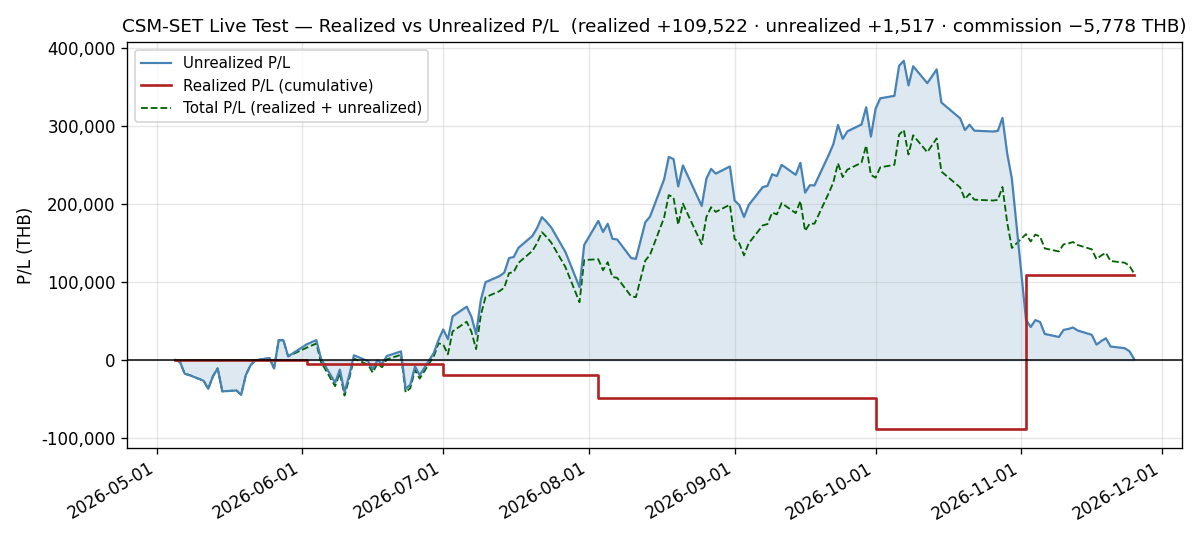
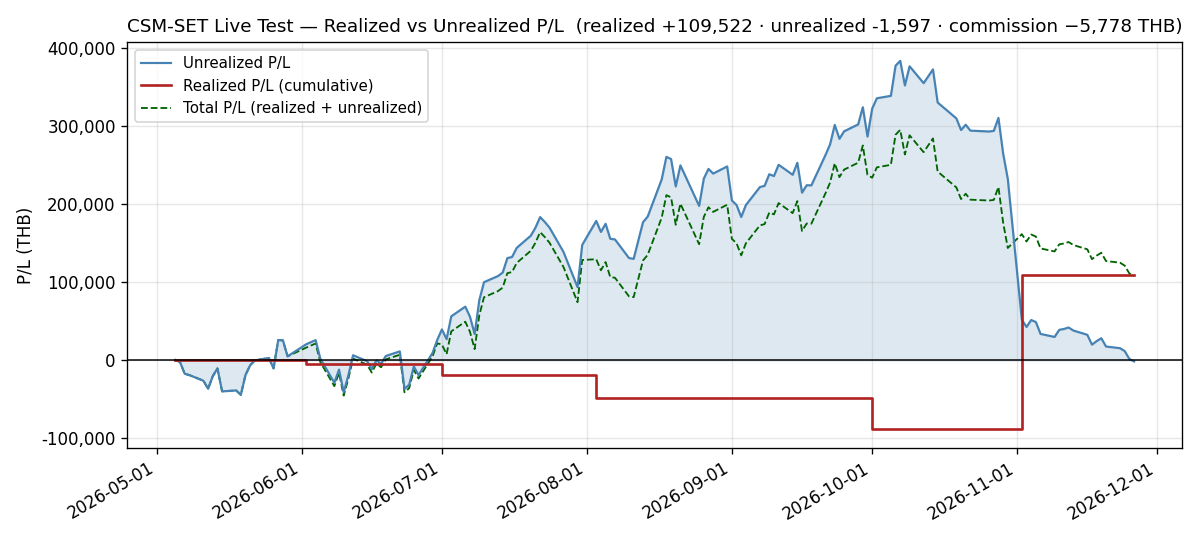
docs(live-test): add daily log for 2026-11-26 (scored session 19 of 40)
NAV 1,226,314.32 THB, -3,114.00 (-0.2533%) on the published prior close;
window -2.8400%. Two names rose and eight fell; unrealized P/L turned
negative (-1,596.98), for the first time since 2026-06-26 in pnl.csv. HANA
went ex-dividend (0.25 THB/share, 150.00 THB uncredited) and its history was
back-adjusted, so equity_curve and daily_return moved to the restated basis
while daily_performance kept the published NAV. The breaker stays TRIPPED
at a rolling drawdown of -13.2417%; the regime stays BEAR. pnl.csv row and
the P/L chart regenerated; the three NAV charts are byte-identical.

Claude-Session: https://claude.ai/code/session_01VKyqnmKmz6Hh9ErHRFMhFr

diff --git a/docs/live-test/daily/2026-11-26.md b/docs/live-test/daily/2026-11-26.md
@@ -1,0 +1,291 @@
+# Daily Log — 2026-11-26 (Thursday)
+
+**As of:** 2026-11-26, Asia/Bangkok
+**Phase:** D — Final Evaluation & Documentation
+**Day:** 141 / 21 trading days remaining in 2026
+**Status:** 🟢 **SCORED — session 19 of 40 in the registered window** (`reports/2026-10-27-forward-scoring-pre-registration.md`). **NAV closes at 1,226,314.32 THB, −3,114.00 (−0.2533%) on the session and −2.8400% on NAV₀ = 1,262,159.89**, its lowest close since 2026-08-11. **Two names rose and eight fell**; CNT −6.67% and INSET −3.61% led. ⚠ **Unrealized P/L turned negative, −1,596.98 THB (−0.80%)**, for the first time since 2026-06-26 in `graphs/pnl.csv`. ⚠ **HANA went ex-dividend**, and its price history was back-adjusted (Risk Note 2). 🔴 **The circuit breaker stays TRIPPED**, its rolling drawdown deepening to **−13.2417%**, the deepest in the published NAV series. 🔴 **The regime stays BEAR**; the SET fell −0.9842%, its third consecutive fall. 🟢 **The eighth scheduled refresh on image `239921e2a7bd` ran clean** (211 / 0), and no bound fired. ⚠ **125 of 1,055 holiday polls banked** since the settfex 0.26.3 upgrade (Risk Note 7). Total Return on NAV is **+9.49%**.
+
+---
+
+## Execution Summary
+
+**No trades today.** The book is the one recorded from the 2026-11-02 rotation (`configs/live_portfolio.yaml` at `2f846b0`), unchanged since. Realized P/L for the session is **0.00 THB** and no commission was paid. **The breaker's safe mode acts only at a month-end evaluation**, so equity at 16.1571% of NAV creates no trade. The next evaluation is **2026-11-30** (registration §3).
+
+---
+
+## Portfolio Snapshot
+
+> 🟢 **Every figure in this section is SCORED-WINDOW data, session 19.** It is `configs/live_portfolio.yaml` at `2f846b0` repriced against the 2026-11-26 bar of `data/processed/prices_latest.parquet`, and it **equals** the `db_gateway.daily_performance` row the 18:00 refresh wrote.
+
+`Avg Cost` is the commission-inclusive per-share basis carried from `configs/live_portfolio.yaml` (4-decimal precision); `Cost Basis = shares × Avg Cost`, and `U.PL % = MV / Cost Basis − 1`.
+
+| # | Symbol | Shares | Avg Cost | Last Price | Market Value (THB) | Cost Basis (THB) | U.PL % |
+|---|--------|-------:|---------:|-----------:|--------------------:|-----------------:|-------:|
+| 1 | IRPC | 11,300 | 2.3037 | 2.04 | 23,052.00 | 26,031.81 | −11.45% |
+| 2 | HANA | 600 | 35.8070 | 43.60 | 26,160.00 | 21,484.20 | +21.76% |
+| 3 | GUNKUL | 6,100 | 2.9246 | 4.10 | 25,010.00 | 17,840.06 | +40.19% |
+| 4 | INSET | 8,400 | 3.0848 | 3.20 | 26,880.00 | 25,912.32 | +3.73% |
+| 5 | KCE | 500 | 39.0655 | 51.75 | 25,875.00 | 19,532.75 | +32.47% |
+| 6 | EPG | 3,400 | 5.9099 | 5.02 | 17,068.00 | 20,093.66 | −15.06% |
+| 7 | SMT | 4,000 | 5.8097 | 4.94 | 19,760.00 | 23,238.80 | −14.97% |
+| 8 | CNT | 3,600 | 3.3456 | 1.82 | 6,552.00 | 12,044.16 | −45.60% |
+| 9 | SPRC | 1,200 | 13.8232 | 12.15 | 14,580.00 | 16,587.84 | −12.10% |
+| 10 | SSP | 2,200 | 7.7129 | 6.00 | 13,200.00 | 16,968.38 | −22.21% |
+
+### Portfolio summary
+
+| Metric | Value |
+|--------|-------|
+| Total Cost Basis | 199,733.98 THB |
+| Total Market Value | 198,137.00 THB |
+| Unrealized P/L | −1,596.98 THB (−0.80%) |
+| Realized P/L (today) | 0.00 THB |
+| Realized P/L (cumulative, since inception) | **+109,521.83 THB** |
+| Commission paid (cumulative) | **−5,777.54 THB** |
+
+### Account summary
+
+| Metric | Value |
+|--------|-------|
+| Remaining Cash | 1,028,177.32 THB |
+| Total NAV | 1,226,314.32 THB |
+| Total Return on NAV | +9.49% |
+
+> **Cost-basis note:** Total Cost Basis is **199,733.98 THB**, equal to Σ per-symbol `shares × avg_cost` with a **0.00** delta, unchanged since the rotation.
+>
+> **Above/below cost: 4 up / 6 down**, the same names as on 2026-11-25. **CNT** (−45.60%), **SSP** (−22.21%), **EPG** (−15.06%), **SMT** (−14.97%), **SPRC** (−12.10%) and **IRPC** (−11.45%) are below; HANA, GUNKUL, INSET and KCE are above.
+>
+> **Equity is 16.1571% of NAV** (198,137.00 of 1,226,314.32), down from 16.3695%. The breaker acts only at the month-end evaluation.
+>
+> **Total P/L check:** realized + unrealized = 109,521.83 − 1,596.98 = **+107,924.85 THB**, down from +111,038.85 by **3,114.00**, exactly the session's NAV change.
+
+---
+
+## Day-over-Day Change (vs Wednesday November 25)
+
+| Symbol | Nov 25 Close | Nov 26 Close | Change | Change % | MV Contribution (THB) |
+|--------|-------------:|-------------:|-------:|---------:|----------------------:|
+| IRPC | 1.99 | 2.04 | +0.05 | +2.51% | +565.00 |
+| SPRC | 11.95 | 12.15 | +0.20 | +1.67% | +240.00 |
+| HANA | 44.00 | 43.60 | -0.40 | -0.91% | -240.00 |
+| EPG | 5.08 | 5.02 | -0.06 | -1.18% | -204.00 |
+| KCE | 52.50 | 51.75 | -0.75 | -1.43% | -375.00 |
+| SMT | 5.02 | 4.94 | -0.08 | -1.59% | -320.00 |
+| GUNKUL | 4.22 | 4.10 | -0.12 | -2.84% | -732.00 |
+| INSET | 3.32 | 3.20 | -0.12 | -3.61% | -1,008.00 |
+| SSP | 6.26 | 6.00 | -0.26 | -4.15% | -572.00 |
+| CNT | 1.95 | 1.82 | -0.13 | -6.67% | -468.00 |
+| **Total** | | | | **-1.55%** | **-3,114.00** |
+
+**Breadth: 2 up, 8 down, 0 flat.**
+
+> The `Change %` on the Total row is the **market-value** change (−3,114.00 / 201,251.00 = −1.5473%), not the NAV change (−3,114.00 / 1,229,428.32 = −0.2533%). They differ by the cash in the NAV denominator, 83.63% of the prior session's NAV in safe mode.
+>
+> ⚠ **HANA's `Nov 25 Close` is the published 44.00.** The panel now reads **43.75** for that session: HANA's history was back-adjusted (Risk Note 2). On the restated basis its change is −0.15 (−0.34%, −90.00). **The published basis reconciles to the NAV change exactly; the restated basis misses by 150.00, which is the dividend.**
+
+**Eight names fell; the two risers added +805.00 against −3,919.00.**
+
+- **INSET −3.61% (−1,008.00)** was the session's largest loss in THB, its largest fall since 2026-11-23. It closed at its lowest since 2026-06-11, and its U.PL is +3.73%.
+- **CNT −6.67% (−468.00)** was the largest fall in percent. It closed at its lowest since 2026-08-14, and its U.PL is −45.60%. Over the four sessions since 2026-11-20 it is down −39.33%, from 3.00 to 1.82.
+- **SSP −4.15% (−572.00)** closed at its lowest since 2026-09-08, and **GUNKUL −2.84% (−732.00)** at its lowest since 2026-06-24.
+- **IRPC +2.51% (+565.00)** is its largest rise since 2026-11-13, and **SPRC +1.67% (+240.00)** its largest since 2026-11-10. They were the only risers.
+- **Unrealized P/L is −1,596.98 (−0.80%)**, down from +1,517.02. It is negative for the first time since 2026-06-26 in `graphs/pnl.csv`.
+- **NAV is at its lowest since 2026-08-11.**
+- **The book fell −0.2533% and the SET −0.9842%**, a **+0.7310pp** difference. It is a same-session arithmetic result for a book that is 83.84% cash, not a performance comparison (Market Context).
+
+No cause is stated for any of these moves; none was looked up.
+
+---
+
+## Market Context
+
+| Indicator | Value | Source |
+|-----------|-------|--------|
+| SET Index | 1,414.44 | tvkit (TradingView) |
+| SET Open / High / Low | 1,439.73 / 1,442.13 / 1,414.21 | tvkit |
+| SET 200-day SMA | 1,531.0517 | tvkit (TradingView) |
+| Regime Estimate | BEAR | SET −7.62% below SMA200 |
+
+> ⚠ **This is context, NOT a benchmark comparison, and it must not be read as one.**
+>
+> - **Different price bases.** `SET:SET` is a **price index**; the strategy series above is priced on **dividend-adjusted** bars (since `e04a292`, 2026-08-09). The difference is one-sided in the strategy's favour, and it is not small: measured 2026-09-11 over 2024-03-19 → 2026-09-10, the dividend adjustment is worth **+12.09 percentage points** on this universe, roughly **+4.8%/yr**.
+> - **No alpha, excess return or outperformance figure is computed anywhere in this log.** The registration's tracking error against this index is reported in Risk Note 1 as a risk metric (§5).
+
+---
+
+## Regime State
+
+- **Detected regime:** 🔴 **BEAR**, the nineteenth session. SET (1,414.44) is **below** SMA200 (1,531.0517) by −7.6164%.
+- **SMA200 position:** 1,531.0517, with the SET closing 116.61 points under it.
+- **3-month return:** −11.66% (window-sensitive — see Notes).
+- **The engine's own `RegimeDetector.detect()` also returns BEAR**: price below SMA200, and a 63-session return of **−11.64%** against its −5% threshold.
+- **No regime-driven action under the registration.** The regime filter is not one of the registered rules (§4). The SET closed −8.11% below its own EMA100 and −6.21% below its EMA200; both are reported and not applied.
+
+**The last six closes read 1,472.64 → 1,453.28 → 1,454.49 → 1,451.65 → 1,428.50 → 1,414.44.**
+
+- **Today:** a **−14.06 point, −0.9842%** session. The index is **−12.7906%** below the 2026-09-08 high. It is the third consecutive fall.
+- **The SET's lowest close since 2026-03-24**, on bars fetched back to 2020-09-17.
+- **Range:** **27.92 points**, against 20.19 the prior session. The index opened at 1,439.73, reached 1,442.13, and closed 0.23 above its low of 1,414.21.
+- **Cushion fell −6.6727% → −7.6164%, a −0.9437pp step**, to its lowest since 2025-07-16. SMA200 rose to **1,531.0517** (+0.4169).
+- **A BEAR→BULL crossing needs the index 116.61 points higher**, +8.24% at today's SMA200.
+
+The 3-month figure moved from −11.48% to −11.66%, its start bar moving from 2026-08-21 (1,613.78) to 2026-08-24 (1,601.05).
+
+---
+
+## Sector Concentration
+
+Groupings are SET-official, as on 2026-11-02. The book is held at about 20% equity by the breaker's safe mode.
+
+| Sector | Market Value (THB) | % of NAV | % of stocks held | Limit (NAV) | Status |
+|--------|--------------------:|---------:|-----------------:|-------------|--------|
+| Energy & Utilities (ENERG) | 75,842 | 6.1845% | 38.2776% | 35% | OK on NAV |
+| Electronic Components (ETRON) | 71,795 | 5.8545% | 36.2350% | 35% | OK on NAV |
+| ICT | 26,880 | 2.1919% | 13.5664% | 35% | OK |
+| Construction Materials (CONMAT) | 17,068 | 1.3918% | 8.6142% | 35% | OK |
+| Construction Services (CONS) | 6,552 | 0.5343% | 3.3068% | — | below the 5% floor by ruling I5 |
+
+- **Every sector fell. ICT fell most, −0.0765pp to 2.1919%**, on INSET. ETRON −0.0613pp on KCE, SMT and HANA. **ENERG still leads at 6.1845% of NAV** (−0.0250pp): IRPC and SPRC rose, GUNKUL and SSP fell. CONS −0.0367pp on CNT, CONMAT −0.0131pp on EPG.
+- **The 35% cap is measured on NAV** (I2), and no sector is near it.
+- **As a share of the stocks held, ENERG is 38.28% and ETRON 36.24%.** The two hold 74.51% of the equity sleeve between them. This is recorded for context; it is not the registered measure.
+- **Every position is below the 5% floor**, between 0.5343% (CNT) and 2.1919% (INSET) of NAV. The breaker governs the band (I5), so **these are not deviations**.
+
+---
+
+## Risk Notes
+
+1. 🟢 **SCORED SESSION 19 OF 40.**
+
+   | Measure (registration §5) | Value |
+   |---|---|
+   | NAV₀ (2026-10-30 close) | 1,262,159.89 |
+   | NAV₁₈ (2026-11-25 close) | 1,229,428.32 |
+   | NAV₁₉ (2026-11-26 close) | 1,226,314.32 |
+   | r₁₉ = NAV₁₉ / NAV₁₈ − 1 | **−0.2533%** |
+   | Window return to date | **−2.8400%** |
+   | Max drawdown to date (running peak from NAV₀) | **−4.1825%** (2026-11-26, from the 2026-11-02 peak) |
+   | Annualized volatility (n = 19) | 10.41% |
+   | Sharpe, rf = 2% (n = 19) · rf = 0 | −3.81 · −3.62 |
+   | Tracking error vs `SET:SET` (n = 19) | 11.27% |
+
+   **Nineteen returns carry almost no information**, and annualizing them magnifies that. **No criterion is graded before the window ends** (2026-12-30), and §9's power statement applies to every figure here.
+2. ⚠ **HANA WENT EX-DIVIDEND, AND ITS PRICE HISTORY WAS BACK-ADJUSTED.**
+   - **What changed:** every HANA bar in the window was multiplied by **0.99431818**, uniform across all 18 dates from 2026-11-02 to 2026-11-25. That implies **0.25 THB/share** (44.00 × 0.0056818 = 0.2500) and an entitlement of **150.00 THB** on 600 shares, not credited (Risk Note 10). It is the only held name restated on this session; GUNKUL's restatement of 2026-11-20 is unchanged.
+   - **`daily_performance` equals this log.** The row reads **1,226,314.32, cash 1,028,177.32**, and today's `equity_curve` row agrees.
+   - **`daily_return` reads −0.2411%, against this log's −0.2533%.** The gateway measures from the prior session repriced at the restated close: 1,229,278.32, which is the published 1,229,428.32 less the 150.00. This log, and the scored series, use the published prior NAV (registration §8: the published NAV, frozen at publication).
+   - **`equity_curve` was rewritten again on all 18 earlier window dates**, each by 600 × that session's HANA back-adjustment (126.99 to 163.64 THB), on top of the GUNKUL rewrite of 2026-11-20. `daily_performance`, the published series, is unchanged.
+   - `cumulative_return` and `combined_drawdown` both read −4.1620%. They are measured from `entry_date` 2026-11-02 on the basis restated for both names, and they are not the scored series (§5). On the published basis the same span is −4.1825%, the max drawdown in Risk Note 1.
+3. 🔴 **CIRCUIT BREAKER — TRIPPED, threaded one session (I4).**
+   - **Procedure:** `DrawdownCircuitBreaker` with the recorded parameters (60 sessions, −10% trip, −5% recovery held 21 sessions), called with the state carried from 2026-11-25 (TRIPPED, recovery progress 0) on the published NAV series. It returns **TRIPPED**, rolling drawdown **−13.2417%**, equity fraction **0.20**, no transition.
+   - The drawdown deepened from −13.0214% on 2026-11-25, so it is again **the deepest in the published NAV series**. **Recovery needs it above −5%**, so the state does not move.
+   - The 2026-10-07 peak (1,413,483.89) is still the window's high.
+   - **Recovery** starts when the rolling drawdown rises above −5%, at NAV **1,342,809.70**. That is **116,495.38 (+9.4996%)** above today's NAV. From a book 16.16% in stocks, it needs the equity sleeve to rise about **58.80%**.
+   - **The 1,064,000 THB line** (5% below `starting_nav`) has NAV **+162,314.32** (13.24%) above it. Under the registration it is a reporting line and carries no action.
+4. 🔴 **REGIME — BEAR, the nineteenth session** (Regime State). Under the registration it changes nothing. The transition is recorded in `events/2026-11-02-regime-transition-bull-to-bear.md`.
+5. 🟢 **EXECUTION — CLOSED** by the operator's ruling of 2026-11-04: the operator places every order by hand (registration §12; `events/2026-11-03-rotation-orders-placed-as-limit-orders.md`). Nothing changed since.
+6. 🟢 **REFRESH — the eighth scheduled firing on image `239921e2a7bd` ran clean.** It started at 11:00:00Z and completed at 11:02:11Z with receipt 211 / 0, in 129.825 s.
+   - **No bound fired, and no fetch needed a retry.** The container log holds no "Failed to fetch symbol" line, no "timed out" line and no "daily_refresh exceeded" line since the image started, and no retry warning since the 2026-11-24 one. Every symbol came back on attempt 1. [[TK-0657]]
+7. ⚠ **HOLIDAY POLL — 125 of 1,055 polls banked since the settfex 0.26.3 upgrade (11.8%); 65 of 476 on the current image.**
+
+   | Window | Image | Poll runs | Banked | Failure lines |
+   |---|---|---:|---:|---|
+   | 2026-11-04T12:20:14Z → 2026-11-05T11:20:14Z | `db0cb596918c` | 47 | 7 | logged at DEBUG; 1 run after the saved log, not banked |
+   | 2026-11-05T11:26:33Z → 2026-11-13T11:56:33Z | `7e49ed4f6a87` | 386 | 37 | 348, all `FetchError status_code=401`; 1 run after the saved log, not banked |
+   | 2026-11-13T12:16:34Z → 2026-11-16T13:16:34Z | `5bf4e130cfd6` | 146 | 16 | 128, all `FetchError status_code=401`; 3 runs after the saved log, 1 banked and 2 not |
+   | 2026-11-16T13:22:10Z → 2026-11-26T10:52:10Z | `239921e2a7bd` | 476 | 65 | 411, all `FetchError status_code=401` |
+   | **Total** | | **1,055** | **125** | |
+
+   - **The longest gap between two banked polls is still 45 h 30 m** (2026-11-20 10:22Z → 2026-11-22 07:52Z).
+   - **The stale-table warning continues.** The container logged *"committed 2026 fallback table is STALE vs the live calendar — promote: 2026-12-16"* at every firing from 2026-11-20 to 2026-11-26. The running image predates `941f406`, which added the date to the committed table on 2026-11-20; the banked calendar, which the refresh reads, has it.
+   - **Outside csm-set:** the platform's own market calendar still read 2026-12-16 as a trading day when checked on 2026-11-26. The finding was posted to `session:pm` on #461 on 2026-11-20, and it has no reply.
+   - **How banked polls are counted.** The observer's record covers the second image's first 99 runs (6 banked). After it ended on 2026-11-07T12:33:49Z, a run with no failure line counts as banked.
+   - **Runs whose log was lost** are counted when the banked calendar file decides their outcome. This is the rule adopted in the 2026-11-17 log. One run, 2026-11-16T11:46:34Z, cannot be decided and is left out.
+   - **Positive control:** the latest run before the 18:00 firing with no failure line, 09:52:10Z, matches the `captured_at` of 09:52:10Z that the firing read.
+   - **Exposure:** polls banked per Bangkok date since the upgrade (2026-11-04: 2, 2026-11-05: 5, 2026-11-06: 4, 2026-11-07: 2, 2026-11-08: 7, 2026-11-09: 3, 2026-11-10: 3, 2026-11-11: 6, 2026-11-12: 6, 2026-11-13: 8, 2026-11-14: 3, 2026-11-15: 1, 2026-11-16: 11, 2026-11-17: 10, 2026-11-18: 11, 2026-11-19: 6, 2026-11-20: 8, 2026-11-21: 0, 2026-11-22: 2, 2026-11-23: 6, 2026-11-24: 5, 2026-11-25: 7, 2026-11-26: 9 to the 18:00 firing).
+8. 🟢 **INFRA — no change since 2026-11-25.**
+   - The container has run image `239921e2a7bd` since 2026-11-16 at 20:21:26 BKK. This session's refresh is its eighth.
+   - **Rollback image kept:** `rollback-20261116` → `5bf4e130cfd6`.
+   - **Not yet deployed:** `941f406` (the committed holiday table, Risk Note 7). It ships with the next image build; none is planned in this log.
+   - **The missing-receipt alert** (TK-0657, closed) runs on HOME (#464). This session's report landed at 18:02 BKK, before the 22:30 BKK due time.
+9. 🟢 **Bands, by ruling.** The 35% cap is measured on NAV, where ENERG leads at 6.1845% (I2). Every position is below the 5% floor (I5). [[TK-0279]]
+10. ⚠ **The uncredited dividend total ROSE, 9,049.00 → 9,199.00 THB**: KCE 1,560.00, INSET 2,100.00, MGC 2,208.00, FORTH 795.00, IRPC 2,264.00, GUNKUL 122.00, HANA 150.00.
+    - HANA's 150.00 is 600 × 0.25, the amount the back-adjustment implies (Risk Note 2).
+    - That is **0.75% of NAV** and **8.52%** of the +107,924.85 total P/L.
+    - The registration reports dividends beside each score and does not credit them (§8).
+11. ⚠ **DOC — the `csm-set-daily-log` skill's `daily_return` guidance remains stale.** Its Step 3 still calls the field *"an open defect, not yet fixed in code"*; it was fixed 2026-09-02. Today it diverges for a different reason, the restatement (Risk Note 2). **Fifty-fifth log to carry this.**
+12. **Open decisions — answered for the scored window, by the registration's §8 and §12 and the 2026-10-31 rulings.**
+
+    | Decision | Registered for the window |
+    |---|---|
+    | EMA100 | per holding |
+    | Bands | bind at construction, on the names being traded; the breaker governs them in safe mode (I5) |
+    | Sector cap | measured on NAV, checked on the scaled book (I2) |
+    | Breaker state | advances every trading session (I4) |
+    | Price history | the published NAV, frozen at publication |
+    | Dividends | not credited, reported beside each score |
+    | Fill rule | the operator places every order by hand (amendment of 2026-11-04, registration §12) |
+
+---
+
+## Notes
+
+- **Scheduled refresh completed via APScheduler with zero failures.**
+  - `"Scheduled daily_refresh completed"` at **2026-11-26T11:02:11Z** (18:02 BKK).
+  - It was the 18:00 cron firing (`cron[... day_of_week='mon-fri', hour='18', minute='0']`, started 11:00:00Z).
+  - Receipt: `symbols_fetched=211, failures=0, duration_seconds=129.825, held_symbols_fetched=10, held_symbols_failed=0, retry_attempts_used=0, index_fetched=true`, corroborated by `results/.tmp/last_refresh.json`.
+  - The held phase ended `requested=10 recovered=10 still_failing=0` at 11:00:08Z, and the universe phase `requested=201 recovered=201 still_failing=0` at 11:01:51Z. The gateway accepted the daily report (`201`) at 11:02:11Z.
+  - The firing's own log line gives the next run as 2026-11-27 18:00 +07.
+- **No manual trigger, checked on the access log's fields.**
+  - Every access record since the container started was parsed, and its `method` and `path` fields were tested for a `POST` to a path under `/api/v1/scheduler/run`. There were 28,273 access records, all `GET /health`, and no `POST` of any kind.
+  - **Positive control:** the same parse finds a synthetic access record with method `POST` and path `/api/v1/scheduler/run/daily_refresh` appended to a copy of the log.
+- **The log holds one ERROR since the container started**, the 2026-11-24 WebSocket failure. Of 40,336 JSON records, 40,326 are INFO, one is ERROR and nine are WARNING: the startup notice that `CSM_API_KEY` is unset (2026-11-16T13:21:39Z), seven calendar warnings (two at 2026-11-19T17:52:11Z, and the stale-table warning at the 2026-11-20, 2026-11-23, 2026-11-24, 2026-11-25 and 2026-11-26 firings), and the 2026-11-24 retry warning.
+- **The container runs image `239921e2a7bd`**, its eighth scheduled refresh.
+  - `Created` 2026-11-16T13:21:26Z, `StartedAt` 13:21:28Z, `RestartCount` 0. `FinishedAt` is unset (0001-01-01) because this container has never stopped.
+  - The host has not rebooted since 2026-10-06 (`uptime -s` 2026-10-06 10:46:02).
+- **`SET:THCOM` was fetched with 600 bars again.**
+- **The price panel and the prior log agree on nine of ten names.** HANA was restated (Risk Note 2).
+- **The panel's row count fell 890 → 889.** Every row still carries a 09:55 Bangkok stamp, the column count is unchanged at **211**, and no session date is duplicated.
+- **Row-integrity checks pass.** `db_csm_set.equity_curve` holds **exactly one row per trading day at `00:00:00+00`** (140 rows, 140 dates, none off midnight), and today's row equals `daily_performance.total_value`. Its 18 earlier window rows were rewritten again (Risk Note 2).
+- **`configs/live_portfolio.yaml` is unchanged** since `2f846b0`.
+- **The P/L identity holds.** `realized_cum + unrealized − (NAV − starting_nav)` = 109,521.83 − 1,596.98 − 106,314.32 = **1,610.53 THB**, unchanged.
+- **Every figure was verified rather than asserted.**
+  - Σ position market value equals Total Market Value exactly (198,137.00).
+  - **Total NAV (1,226,314.32) equals `db_gateway.daily_performance.total_value` to the satang**, and cash equals the YAML's 1,028,177.32.
+  - The contributions, on the published prior closes, sum to the session's NAV change (−3,114.00) exactly.
+  - The sector table sums to Total Market Value exactly.
+  - Σ per-symbol cost basis matches Total Cost Basis with a **0.00** delta, and the position count is 10.
+  - All money arithmetic used `Decimal` with explicit half-up rounding, and so did SMA200.
+- **Realized P/L and commission ledger, unchanged.**
+  - Realized cumulative **+109,521.83 THB**: 2026-06-02 −4,351.87 · 2026-07-01 −14,964.06 · 2026-08-03 −29,775.45 · 2026-10-01 −39,365.29 · 2026-11-02 +197,978.50.
+  - Commission cumulative **−5,777.54 THB**: 05-05 1,611.15 · 06-02 984.44 · 06-04/05 169.09 · 07-01 287.83 · 08-03 682.65 · 10-01 201.81 · 11-02 1,840.57.
+- **Capital events to date, unchanged.** `starting_nav` 1,120,000 after 1,000,000 → 1,100,000 (2026-06-04, +100,000) → 1,120,000 (2026-08-03, +20,000).
+- **Every superlative was computed, and each names its window.**
+
+  | Claim | Window | Source |
+  |---|---|---|
+  | INSET's fall; IRPC's and SPRC's rises; the lows of INSET, CNT, SSP and GUNKUL | the whole panel, which starts 2024-06-10 for nine of these names and 2024-06-06 for CNT | the panel |
+  | NAV's lowest since 2026-08-11 | the published NAV series, from 2026-05-04 | `daily_performance` |
+  | Unrealized P/L negative for the first time since 2026-06-26 | `graphs/pnl.csv`, from 2026-05-05 | `pnl.csv` |
+  | The SET's lowest close since 2026-03-24; the cushion's lowest since 2025-07-16 | bars fetched back to 2020-09-17, so the cushion series starts 2021-07-16 | tvkit |
+- **3-month return figure is window-sensitive.** −11.66% is measured over the trailing 66 bars from today's close (start bar 2026-08-24, 1,601.05). The engine's 63-session figure is −11.64%. The regime estimate uses the SMA200 only.
+- **Follow-ups for the next session (Friday 2026-11-27 18:00 +07).**
+
+  | | Item | Level |
+  |---|---|---|
+  | (a) | the breaker state, threaded once | TRIPPED; rolling drawdown −13.2417%; recovery above 1,342,809.70 |
+  | (b) | the regime | BEAR; 116.61 points to a BULL crossing |
+  | (c) | the holiday-poll rate and the longest gap | banked ÷ run under the one rule; 45 h 30 m |
+  | (d) | #461, and the 2026-12-16 closure in the platform's calendar | `session:pm`'s |
+  | (e) | the next monthly evaluation | 2026-11-30 |
+  | (f) | the weekly report for 2026-11-23 → 2026-11-27 | due 2026-11-27 |
+
+  **The six follow-ups from 2026-11-25 are closed above or elsewhere:**
+  - (a) Risk Note 3; (b) Risk Note 4; (c) Risk Note 7;
+  - (d) Risk Note 7: #461 has no reply;
+  - (e) the evaluation date is unchanged;
+  - (f) Risk Note 8: `941f406` is not yet in the running image.
+- **Calendar.** 2026-11-26 was a trading session.
+  - The 18:00 firing read the banked SET holiday calendar (`results/.tmp/set_holidays.json`) at `captured_at 2026-11-26T09:52:10Z`, with 21 closures.
+  - The banked calendar lists the remaining 2026 closures as **2026-12-07**, **2026-12-10**, **2026-12-16** and **2026-12-31**. The next session is **2026-11-27**.
+  - No trading hours are stated anywhere in this log.
+- Data fetched via tvkit (TradingView, free tier): all 10 held-symbol prices from the 18:00 BKK scheduled-cron refresh; SET Index context anchored explicitly to the 2026-11-26 bar. ⚠ **The vendor back-adjusts a symbol's entire history on an ex-dividend date**, so any prior-session price quoted here is the vendor's *current* view of that session and not necessarily what was published at the time.

diff --git a/docs/live-test/graphs/README.md b/docs/live-test/graphs/README.md
@@ -1,9 +1,9 @@
 # Live-Test Charts — how these are generated
 
-_🟢 **The three NAV charts are on the October month-end, 2026-10-30; the P/L chart is newer, 2026-11-25.** The three **NAV** charts
+_🟢 **The three NAV charts are on the October month-end, 2026-10-30; the P/L chart is newer, 2026-11-26.** The three **NAV** charts
 (`equity_curve`, `drawdown`, `monthly_returns`) were regenerated on 2026-10-30 from `nav_actual.csv` /
 `nav_twr.csv` extended to **121 points** (2026-05-04 → 2026-10-30). `pnl_realized_unrealized.png` was
-regenerated on 2026-11-25 from `pnl.csv` (**139 rows**, through 2026-11-25; its newest realized step is the 2026-11-02 rotation's). ⚠ **The September rows of the two NAV CSVs
+regenerated on 2026-11-26 from `pnl.csv` (**140 rows**, through 2026-11-26; its newest realized step is the 2026-11-02 rotation's). ⚠ **The September rows of the two NAV CSVs
 come from `db_gateway.daily_performance`, not `equity_curve`** — IRPC's 2026-09-09 restatement rewrote the
 `equity_curve` rows it would otherwise have supplied; see the 2026-09-30 History entry. **The October rows
 are the published daily-log NAVs**, which equal `equity_curve` on every October session; `daily_performance`
@@ -262,14 +262,26 @@ restatement has rewritten `equity_curve` rows inside the month being appended, *
 | `monthly_returns.png` | May **+0.33%** · Jun **+1.44%** · Jul **+9.53%** · Aug **+5.68%** · Sep **+2.90%** · Oct **−6.90%** (no flow in September or October, so the TWR and actual-NAV figures agree for both) |
 | **August bar is the TWR figure** | **+5.68%**, NOT the reported +7.40% and NOT the ex-injection +5.77%. Feeding `nav_actual.csv` instead reproduces the documented failure mode — **Jun +11.62%** and Aug +7.40% |
 | June bar vs the June review | must read **+1.44%**, not +11.62% |
-| `pnl_realized_unrealized.png` *(the 2026-11-25 PNG, through 11-25)* | realized **+109,521.83** · unrealized **+1,517.02** · commission **−5,777.54** THB; the realized line is **flat except at 2026-06-02, 2026-07-01, 2026-08-03, 2026-10-01 and 2026-11-02** — **five** steps, the last one upward. *(The 2026-11-24 PNG read the same realized and commission with unrealized +11,613.02 at 138 points; the 2026-11-23 PNG read the same realized and commission with unrealized +15,372.02 at 137 points; the 2026-11-20 PNG read the same realized and commission with unrealized +17,522.02 at 136 points; the 2026-11-19 PNG read the same realized and commission with unrealized +28,102.02 at 135 points; the 2026-11-18 PNG read the same realized and commission with unrealized +24,460.02 at 134 points; the 2026-11-17 PNG read the same realized and commission with unrealized +19,929.02 at 133 points; the 2026-11-16 PNG read the same realized and commission with unrealized +32,518.02 at 132 points; the 2026-11-13 PNG read the same realized and commission with unrealized +38,044.02 at 131 points; the 2026-11-12 PNG read the same realized and commission with unrealized +41,863.02 at 130 points; the 2026-11-11 PNG read the same realized and commission with unrealized +40,003.02 at 129 points; the 2026-11-10 PNG read the same realized and commission with unrealized +38,865.02 at 128 points; the 2026-11-09 PNG read the same realized and commission with unrealized +29,761.02 at 127 points; the 2026-11-06 PNG read the same realized and commission with unrealized +33,639.02 at 126 points; the 2026-11-05 PNG read the same realized and commission with unrealized +48,895.02 at 125 points; the 2026-11-04 PNG read the same realized and commission with unrealized +51,445.02 at 124 points; the 2026-11-03 PNG read the same realized and commission with unrealized +42,526.02 at 123 points; the 2026-11-02 PNG read the same realized and commission with unrealized +51,932.02 at 122 points; the 2026-10-30 PNG read realized −88,456.67 · unrealized +232,227.03 · commission −3,936.97 at 121 points, with four steps; the 2026-10-29 PNG read the same realized and commission with unrealized +264,919.03 at 120 points; the 2026-10-28 PNG read the same realized and commission with unrealized +310,400.03 at 119 points; the 2026-10-27 PNG read the same realized and commission with unrealized +293,787.03 at 118 points; the 2026-10-26 PNG read the same realized and commission with unrealized +293,003.03 at 117 points; the 2026-10-22 PNG read the same realized and commission with unrealized +294,101.03 at 116 points; the 2026-10-21 PNG read the same realized and commission with unrealized +301,696.03 at 115 points; the 2026-10-20 PNG read the same realized and commission with unrealized +294,904.03 at 114 points; the 2026-10-19 PNG read the same realized and commission with unrealized +309,815.03 at 113 points; the 2026-10-15 PNG read the same realized and commission with unrealized +330,143.03 at 112 points; the 2026-10-14 PNG read the same realized and commission with unrealized +372,572.03 at 111 points; the 2026-10-12 PNG read the same realized and commission with unrealized +354,949.03 at 110 points; the 2026-10-09 PNG +376,567.03 at 109; the 2026-10-08 PNG +352,021.03 at 108; the 2026-10-07 PNG +383,551.03 at 107; the 2026-10-06 PNG +377,303.03 at 106; the 2026-10-05 PNG +338,709.03 at 105; the 2026-10-02 PNG +335,559.03 at 104; the 2026-10-01 PNG +322,278.03 at 103.)* *(The 2026-08-31 PNG read:* realized **−49,091.38** · unrealized **+248,232.35** · commission **−3,735.16** THB; the realized line is **flat except at 2026-06-02, 2026-07-01 and 2026-08-03** — **three** steps.) *(The superseded 2026-08-28 render showed −49,091.38 / +239,078.35 at 79 points; the 2026-08-27 one showed −49,091.38 / +245,069.35 at 78 points; the 2026-08-26 one showed −49,091.38 / +232,605.35 at 77 points; the 2026-08-25 one showed −49,091.38 / +197,671.35 at 76 points; the 2026-08-24 one showed −49,091.38 / +210,441.35 at 75 points; the 2026-08-21 one showed −49,091.38 / +249,619.35 at 74 points; the 2026-08-20 one showed −49,091.38 / +222,599.35 at 73 points; the 2026-08-19 one showed −49,091.38 / +257,693.35 at 72 points; the 2026-08-18 one showed −49,091.38 / +260,527.35 at 71 points; the 2026-08-17 one showed −49,091.38 / +231,713.35 at 70 points; the 2026-08-14 one −49,091.38 / +183,951.35 at 69 points; the 2026-08-12 one −49,091.38 / +129,844.35 at 67 points; the 2026-08-01 one −19,315.93 / +147,665.89 / −3,052.51 and only two steps.)* |
-| `pnl.csv` last row *(the CSV and the P/L PNG are in sync — see the header)* | 2026-11-25: realized **+109,521.83** · unrealized **+1,517.02** · total **+111,038.85** · commission **5,777.54** THB; **139 rows**, matching `equity_curve`'s 139 **in row count only** *(↻ this row read 2026-08-31 / 80 rows until 2026-10-02: the September daily runs extended the CSV without updating it; it is updated with each session's History entry since)* — the values diverge historically after the KCE, INSET, MGC *and* FORTH restatements (see the header caveat) |
+| `pnl_realized_unrealized.png` *(the 2026-11-26 PNG, through 11-26)* | realized **+109,521.83** · unrealized **−1,596.98** · commission **−5,777.54** THB; the realized line is **flat except at 2026-06-02, 2026-07-01, 2026-08-03, 2026-10-01 and 2026-11-02** — **five** steps, the last one upward. *(The 2026-11-25 PNG read the same realized and commission with unrealized +1,517.02 at 139 points; the 2026-11-24 PNG read the same realized and commission with unrealized +11,613.02 at 138 points; the 2026-11-23 PNG read the same realized and commission with unrealized +15,372.02 at 137 points; the 2026-11-20 PNG read the same realized and commission with unrealized +17,522.02 at 136 points; the 2026-11-19 PNG read the same realized and commission with unrealized +28,102.02 at 135 points; the 2026-11-18 PNG read the same realized and commission with unrealized +24,460.02 at 134 points; the 2026-11-17 PNG read the same realized and commission with unrealized +19,929.02 at 133 points; the 2026-11-16 PNG read the same realized and commission with unrealized +32,518.02 at 132 points; the 2026-11-13 PNG read the same realized and commission with unrealized +38,044.02 at 131 points; the 2026-11-12 PNG read the same realized and commission with unrealized +41,863.02 at 130 points; the 2026-11-11 PNG read the same realized and commission with unrealized +40,003.02 at 129 points; the 2026-11-10 PNG read the same realized and commission with unrealized +38,865.02 at 128 points; the 2026-11-09 PNG read the same realized and commission with unrealized +29,761.02 at 127 points; the 2026-11-06 PNG read the same realized and commission with unrealized +33,639.02 at 126 points; the 2026-11-05 PNG read the same realized and commission with unrealized +48,895.02 at 125 points; the 2026-11-04 PNG read the same realized and commission with unrealized +51,445.02 at 124 points; the 2026-11-03 PNG read the same realized and commission with unrealized +42,526.02 at 123 points; the 2026-11-02 PNG read the same realized and commission with unrealized +51,932.02 at 122 points; the 2026-10-30 PNG read realized −88,456.67 · unrealized +232,227.03 · commission −3,936.97 at 121 points, with four steps; the 2026-10-29 PNG read the same realized and commission with unrealized +264,919.03 at 120 points; the 2026-10-28 PNG read the same realized and commission with unrealized +310,400.03 at 119 points; the 2026-10-27 PNG read the same realized and commission with unrealized +293,787.03 at 118 points; the 2026-10-26 PNG read the same realized and commission with unrealized +293,003.03 at 117 points; the 2026-10-22 PNG read the same realized and commission with unrealized +294,101.03 at 116 points; the 2026-10-21 PNG read the same realized and commission with unrealized +301,696.03 at 115 points; the 2026-10-20 PNG read the same realized and commission with unrealized +294,904.03 at 114 points; the 2026-10-19 PNG read the same realized and commission with unrealized +309,815.03 at 113 points; the 2026-10-15 PNG read the same realized and commission with unrealized +330,143.03 at 112 points; the 2026-10-14 PNG read the same realized and commission with unrealized +372,572.03 at 111 points; the 2026-10-12 PNG read the same realized and commission with unrealized +354,949.03 at 110 points; the 2026-10-09 PNG +376,567.03 at 109; the 2026-10-08 PNG +352,021.03 at 108; the 2026-10-07 PNG +383,551.03 at 107; the 2026-10-06 PNG +377,303.03 at 106; the 2026-10-05 PNG +338,709.03 at 105; the 2026-10-02 PNG +335,559.03 at 104; the 2026-10-01 PNG +322,278.03 at 103.)* *(The 2026-08-31 PNG read:* realized **−49,091.38** · unrealized **+248,232.35** · commission **−3,735.16** THB; the realized line is **flat except at 2026-06-02, 2026-07-01 and 2026-08-03** — **three** steps.) *(The superseded 2026-08-28 render showed −49,091.38 / +239,078.35 at 79 points; the 2026-08-27 one showed −49,091.38 / +245,069.35 at 78 points; the 2026-08-26 one showed −49,091.38 / +232,605.35 at 77 points; the 2026-08-25 one showed −49,091.38 / +197,671.35 at 76 points; the 2026-08-24 one showed −49,091.38 / +210,441.35 at 75 points; the 2026-08-21 one showed −49,091.38 / +249,619.35 at 74 points; the 2026-08-20 one showed −49,091.38 / +222,599.35 at 73 points; the 2026-08-19 one showed −49,091.38 / +257,693.35 at 72 points; the 2026-08-18 one showed −49,091.38 / +260,527.35 at 71 points; the 2026-08-17 one showed −49,091.38 / +231,713.35 at 70 points; the 2026-08-14 one −49,091.38 / +183,951.35 at 69 points; the 2026-08-12 one −49,091.38 / +129,844.35 at 67 points; the 2026-08-01 one −19,315.93 / +147,665.89 / −3,052.51 and only two steps.)* |
+| `pnl.csv` last row *(the CSV and the P/L PNG are in sync — see the header)* | 2026-11-26: realized **+109,521.83** · unrealized **−1,596.98** · total **+107,924.85** · commission **5,777.54** THB; **140 rows**, matching `equity_curve`'s 140 **in row count only** *(↻ this row read 2026-08-31 / 80 rows until 2026-10-02: the September daily runs extended the CSV without updating it; it is updated with each session's History entry since)* — the values diverge historically after the KCE, INSET, MGC *and* FORTH restatements (see the header caveat) |
 | The August regeneration *(**done** 2026-08-12, **superseded** by the 2026-08-14, 2026-08-17, 2026-08-18, 2026-08-19, 2026-08-20, 2026-08-21, 2026-08-24, 2026-08-25, 2026-08-26, 2026-08-27, 2026-08-28 and then the 2026-08-31 render)* | ✅ satisfied — the current PNG title reads `realized -49,091 · unrealized +248,232 · commission −3,735 THB`, the series ends 2026-08-31 at 80 points, and the realized line steps **three** times. Verified by eye against the rendered image, not only from the generator's stdout |
 | Only ONE PNG may change on a P/L regeneration | ✅ `gen_pnl_chart.py:118` writes `pnl_realized_unrealized.png` and nothing else. Checksum the four PNGs before and after: the three NAV charts must be **byte-identical** and keep their 2026-08-01 mtimes. Verified 2026-08-14, 2026-08-17, 2026-08-18, 2026-08-19, 2026-08-20, 2026-08-21, 2026-08-24, 2026-08-25, 2026-08-26, 2026-08-27, 2026-08-28 and 2026-08-31 — only the P/L PNG's hash moved on all twelve |
 | P/L reconciliation | `realized_cum + unrealized − (NAV − capital)` = **1,610.53** from 2026-11-02 (**1,610.47** for 2026-10-01 → 2026-10-30, **1,610.27** for 2026-08-03 → 2026-09-30, **1,609.61** for 2026-07-01 → 2026-07-31; every era since 2026-05-05 is listed in §Reconciliation residual, corrected 2026-10-31), and constant *within* each era; the 2026-11-02 step is **+0.06** (SPRC +0.02, SSP −0.08 against their all-in costs) and the 2026-10-01 step **+0.20**, CNT's: 4-dp `avg_cost` rounding both times. A *drifting* residual means a realisation was missed; the one-time **+0.66** step at the rotation is 4-dp `avg_cost` rounding — see above |
 | `commission_cum` | rises **only on the 8 fill dates** (05-05, 06-02, 06-04, 06-05, 07-01, 08-03, 10-01, **11-02**); a rise on any other day means a non-trading day was credited with a fill |
 
 ## History
+
+**`pnl.csv` extended through 2026-11-26** on 2026-11-26, appending the **2026-11-26** row — scored session 19,
+a no-trade session. `realized_cum` (+109,521.83) and `commission_cum` (5,777.54) are unchanged, so the realized
+line takes no step. Unrealized falls +1,517.02 → **−1,596.98**, negative for the first time since 2026-06-26 in
+this CSV, and `total_pl` +111,038.85 → **+107,924.85** (−3,114.00, exactly the session's NAV change, measured
+from the published prior close of HANA, which was restated that day for an ex-dividend date); `total_pl` is at
+its lowest since 2026-08-11 in this CSV. Earlier rows are not rewritten: this CSV keeps each session's published
+figures. The reconciliation residual holds at **1,610.53**.
+**`pnl_realized_unrealized.png` was regenerated in the same session**, so the two artifacts end together at
+**140 points**; the four PNGs were checksummed (md5) before and after, and the three NAV charts are
+byte-identical (`drawdown` 7df00897…, `equity_curve` 5ab54261…, `monthly_returns` 89088737…), with only the
+P/L chart's hash moving (b260f7f6… → **d3749412…**). Checked against the rendered image.
 
 **`pnl.csv` extended through 2026-11-25** on 2026-11-25, appending the **2026-11-25** row — scored session 18,
 a no-trade session. `realized_cum` (+109,521.83) and `commission_cum` (5,777.54) are unchanged, so the realized
